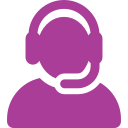
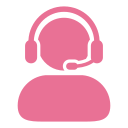
agregando texto al header desktop

diff --git a/css/estilos.css b/css/estilos.css
@@ -599,7 +599,7 @@ img {
     width: 100%;
     height: 100%;
     background: black;
-    opacity: 0.4;
+    opacity: 0.6;
 }
 /* BANnner principal titulo h1 principal */
 .titulo-principal{
@@ -615,7 +615,7 @@ img {
 }
 /* BOTON WHATSAPP PRINCIPAL  */
 .boton-whatsapp-prinpicipal{
-    background: #a74e98;
+    background: #e97195;
     color: white;
     padding: 12px;
     text-decoration: none;
@@ -651,7 +651,7 @@ img {
     position: absolute;
     width: 180px;
     height: 55px;
-    background: #a74e98;
+    background: #e97195;
     z-index: -1;
     top: 12px;
     left: -5px;
@@ -677,7 +677,7 @@ img {
     position: absolute;
     width: 180px;
     height: 55px;
-    background: #a74e98;
+    background: #e97195;
     z-index: -1;
     top: 12px;
     left: -5px;
@@ -896,13 +896,16 @@ img {
 @media screen and (min-width:768px) {
     /* H1 TITULO PRINCIPAL-TITULO BANNER PRINCIPAL */
     .banner-principal__content{
-        max-width: 790px !important;
+        max-width: 900px !important;
         /* background-color: red; */
     }
     .titulo-principal{
         font-size: 52px;
     }
     .banner-principal__content p{
+        font-size: 18px;
+    }
+    .boton-whatsapp-prinpicipal{
         font-size: 18px;
     }
     /* BANNER HOME HEADER */
@@ -931,7 +934,7 @@ img {
     .heading-banner__title::before{
         width: 275px;
         height: 75px;
-        background: #a74e98;
+        background: #e97195;
         opacity: .8;
     }
     /* TITULOS H1 BANNER ARTICULOS */
@@ -952,7 +955,7 @@ img {
     .heading-banner__title-articulos::before{
         width: 275px;
         height: 75px;
-        background: #a74e98;
+        background: #e97195;
         top: 15px;
     }
     .banner-secundario-mobile{
@@ -1077,6 +1080,7 @@ img {
     margin-bottom: .3rem;
 }
 @media screen and (min-width:992px) {
+
     /* nav principal */
     .nav-principal{
         border-width: none;
@@ -1089,7 +1093,7 @@ img {
         padding: 2rem 3.5rem;
     }
     .sidebar-blog__enlaces p{
-        background-color: #a74e98;
+        background-color: #e97195;
         border-radius: 12px;
         font-size: 18px !important;
     }
@@ -1104,6 +1108,9 @@ img {
         /* margin: 0 auto;
         left: 0;
         right: 0; */
+    }
+    .banner-principal__content p{
+        font-size: 19px;
     }
     /* Subtitulos primarios */
 .subtitulos-primarios{
@@ -1189,7 +1196,7 @@ img {
     }
 
     .nav__enlace--active {
-        background-color: #a74e98
+        background-color: #e97195
         ;
         color: var(--bs-white)
     }
@@ -1199,7 +1206,7 @@ img {
     }
 
     .nav__enlace:hover {
-        background-color: #a74e98;        ;
+        background-color: #e97195;        ;
         color: var(--bs-white)
     }
 
@@ -1290,13 +1297,19 @@ img {
     .heading-banner__title-articulos::before{
         width: 275px;
         height: 75px;
-        background: #a74e98;
+        background: #e97195;
         top: 15px;
     }
 }
 @media screen and (min-width:1200px) {
+    .titulo-principal{
+        font-size: 52px;
+    }
+    .banner-principal__content p{
+        font-size: 20px;
+    }
     .sidebar-blog__enlaces p{
-        background-color: #a74e98;
+        background-color: #e97195;
         border-radius: 6px;
         font-size: 20px !important;
     }
@@ -1308,7 +1321,7 @@ font-size: 3.5rem;
 .heading-banner__title::before{
     width: 325px;
     height: 85px;
-    background: #a74e98;
+    background: #e97195;
     opacity: .8;
    
 }
@@ -1329,7 +1342,7 @@ font-size: 3.5rem;
 .heading-banner__title-articulos::before{
     width: 275px;
     height: 75px;
-    background: #a74e98;
+    background: #e97195;
     top: 15px;
 }
 .carousel-p {
@@ -1339,4 +1352,26 @@ font-size: 3.5rem;
 .articulos-enlaces{
 width: 32%;
 }
+}
+@media screen and (min-width: 1400px) {
+    .titulo-principal{
+        font-size: 62px;
+    }
+    .boton-whatsapp-prinpicipal{
+        font-size: 20px;
+    }
+    .banner-principal__content p{
+        font-size: 22px;
+    }
+    .banner-principal__content img{
+        width: 56px;
+        margin-right: .1rem;
+    }
+    .banner-principal__texto{
+        top: calc(50% - 250px);
+        position: absolute;
+        /* margin: 0 auto;
+        left: 0;
+        right: 0; */
+    }
 }

diff --git a/css/bootstrapcustom.css b/css/bootstrapcustom.css
@@ -67,9 +67,9 @@
     --bs-border-radius-xl: 1rem;
     --bs-border-radius-2xl: 2rem;
     --bs-border-radius-pill: 50rem;
-    --bs-link-color: #a93d97;
-    --bs-link-hover-color: #a93d97;
-    --bs-code-color: #a93d97;
+    --bs-link-color: #e97195;
+    --bs-link-hover-color: #e97195;
+    --bs-code-color: #e97195;
     --bs-highlight-bg: #fff3cd
 }
 
@@ -3356,18 +3356,18 @@ fieldset:disabled .btn {
 
 .btn-primary {
     --bs-btn-color: #000;
-    --bs-btn-bg: #a74e98;
-    --bs-btn-border-color: #a74e98;
+    --bs-btn-bg: #e97195;
+    --bs-btn-border-color: #e97195;
     --bs-btn-hover-color: #000;
-    --bs-btn-hover-bg: #a74e98;
-    --bs-btn-hover-border-color: #a74e98;
+    --bs-btn-hover-bg: #e97195;
+    --bs-btn-hover-border-color: #e97195;
     --bs-btn-focus-shadow-rgb: 213, 84, 126;
     --bs-btn-active-color: #000;
-    --bs-btn-active-bg: #a74e98;
-    --bs-btn-active-border-color: #a74e98;
+    --bs-btn-active-bg: #e97195;
+    --bs-btn-active-border-color: #e97195;
     --bs-btn-active-shadow: inset 0 3px 5px rgba(0, 0, 0, 0.125);
     --bs-btn-disabled-color: #000;
-    --bs-btn-disabled-bg: #a74e98;
+    --bs-btn-disabled-bg: #e97195;
     --bs-btn-disabled-border-color:#a74e98
 }
 
@@ -9375,7 +9375,7 @@ fieldset:disabled .btn {
 
 .bg-primary {
     --bs-bg-opacity: 1;
-    background-color: #a74e98 !important
+    background-color: #e97195 !important
 }
 
 .bg-secondary {

diff --git a/index.html b/index.html
@@ -218,11 +218,11 @@
             <img class="banner-desktop" src="imagenes/plantilla-imagenes/banner-1920-1080.jpg" alt="" width="100%">
             <div class="banner-principal__texto mb-0 container">
                 <div class="banner-principal__content">
-                    <h1 class="text-white fw-bold titulo-principal mb-md-3 mb-lg-2">Solución al Atraso Menstrual: Guía Completa sobre Tratamientos y Metodos</h1>
+                    <h1 class="text-white fw-bold titulo-principal mb-md-3 mb-lg-2 mb-xxl-3">Solución al Atraso Menstrual: Guía Completa sobre Tratamientos y Metodos</h1>
                 <p class="text-white"><img src="imagenes/globales/chat.png" width="45px" alt=""> Chat y Asesoria directa con nuestros Especialistas</p>
                 <p class="text-white"><img src="imagenes/globales/informacion.png" width="45px" alt=""> Informacion , Guias y los Mejores Metodos</p>
                 <p class="text-white"><img src="imagenes/globales/atencion.png" width="45px" alt=""> Asistencia virtual las 24hrs</p>
-                <a href="#" class="boton-whatsapp-prinpicipal">Realiza Tu Consulta via WhatsApp</a>     
+                <a href="#" class="boton-whatsapp-prinpicipal mt-md-3 mt-xxl-4">Realiza Tu Consulta via WhatsApp</a>     
                 </div>           
             </div>
         </div>
